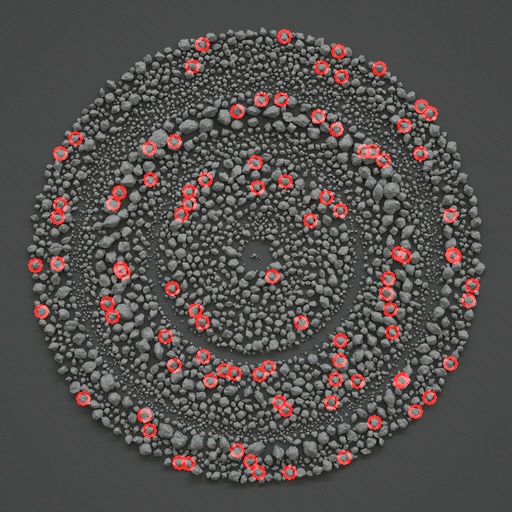
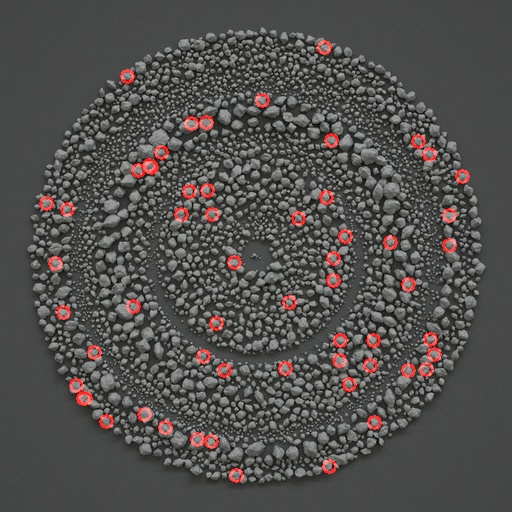
wip: stones segmantation

diff --git a/main.py b/main.py
@@ -532,16 +532,11 @@ def stones():
     # plot.show()
     print(otsu(image))
     print(otsu_threshold(image, (image.height * image.width)))
-    image.treshold(115)
+    image.treshold(135)
     image.update_image(image.new_image, '-thed')
     m = image.new_image
     image.save_image()
 
-    mask = [np.array([
-        [-200, -200, -200],
-        [-200, 0, -200],
-        [-200, -200, -200]
-    ])]
     laplas = cv2.Laplacian(image.new_image, 5)
     # image.add_mask(mask)
     # image.update_image(foo, '-laplas')
@@ -557,21 +552,30 @@ def stones():
     image.update_image(pix_eros1, '-erosed-4x4')
     image.save_image()
     pix_eros2 = cv2.erode(m, kernel2, iterations=1)
-    # pix_eros2 = cv2.dilate(pix_eros2, kernel3)
+    kernel4 = np.ones((1, 1), 'uint8')
+    pix_eros2 = cv2.erode(pix_eros2, kernel4, iterations=1)
+
     image.update_image(pix_eros2, '-erosed-5x5')
     image.save_image()
 
-    # erosion_result1 = sub(pix_eros1, image.new_image)
-    # erosion_result2 = sub(pix_eros2, image.new_image)
-    erosion_result = sub(pix_eros1, pix_eros2)
-    # erosion_result = cv2.dilate(erosion_result, kernel3, iterations=1)
+    # erosion_result = sub(pix_eros1, pix_eros2)
+    erosion_result = np.subtract(pix_eros1, pix_eros2)
 
-    # erosion_result1 = bwareaopen(image, 4)
-    # erosion_result2 = bwareaopen(image, 5)
-    # erosion_result = sub(erosion_result2, erosion_result1)
+    # result1 = bwareaopen(m, 11)
+    # image.update_image(result1, '-bwareaopen1')
+    # image.save_image()
+    # result1 = image.new_image
+    # result2 = bwareaopen(m, 121)
+    # image.update_image(result2, '-bwareaopen2')
+    # image.save_image()
+    # #erosion_result = sub(m, erosion_result1)
+    # erosion_result = np.subtract(result1, result2)
+
+
 
     image.update_image(erosion_result, '-erosed')
     image.save_image()
+
 
     for row in range(1, image.height-1):
         for col in range(1, image.width-1):
@@ -609,7 +613,6 @@ def stones():
     b = cv2.addWeighted(a, 0.7, circles, 1, 0.0)
 
     cv2.imwrite('images/stones/rgb-final.jpg', b)
-
 
     image.save_image()
 

diff --git a/func.py b/func.py
@@ -1023,19 +1023,18 @@ def otsu(image: MyImage) -> int:
     return final_thresh
 
 
-def bwareaopen(src: MyImage, min_size, connectivity=4) -> np.ndarray:
-    image = src.new_image
+def bwareaopen(image, min_size, connectivity=8) -> np.ndarray:
     output = np.zeros((image.shape[0], image.shape[1]), dtype=np.uint8)
     num_labels, labels, stats, centroids = cv2.connectedComponentsWithStats(
         image, connectivity=connectivity
     )
     for i in range(num_labels):
         labels_size = stats[i, cv2.CC_STAT_AREA]
-        if labels_size > min_size:
+        if labels_size < min_size:  # 1. < return image, 2. > return output
             output[labels == i] = image[labels == i]
             image[labels == i] = 0
 
-    return output
+    return image
 
 
 def sub(image1, image2):
@@ -1048,6 +1047,5 @@ def sub(image1, image2):
             #     output[i, j] = 0
             # else:
             #     output[i, j] = diff
-
 
     return output
